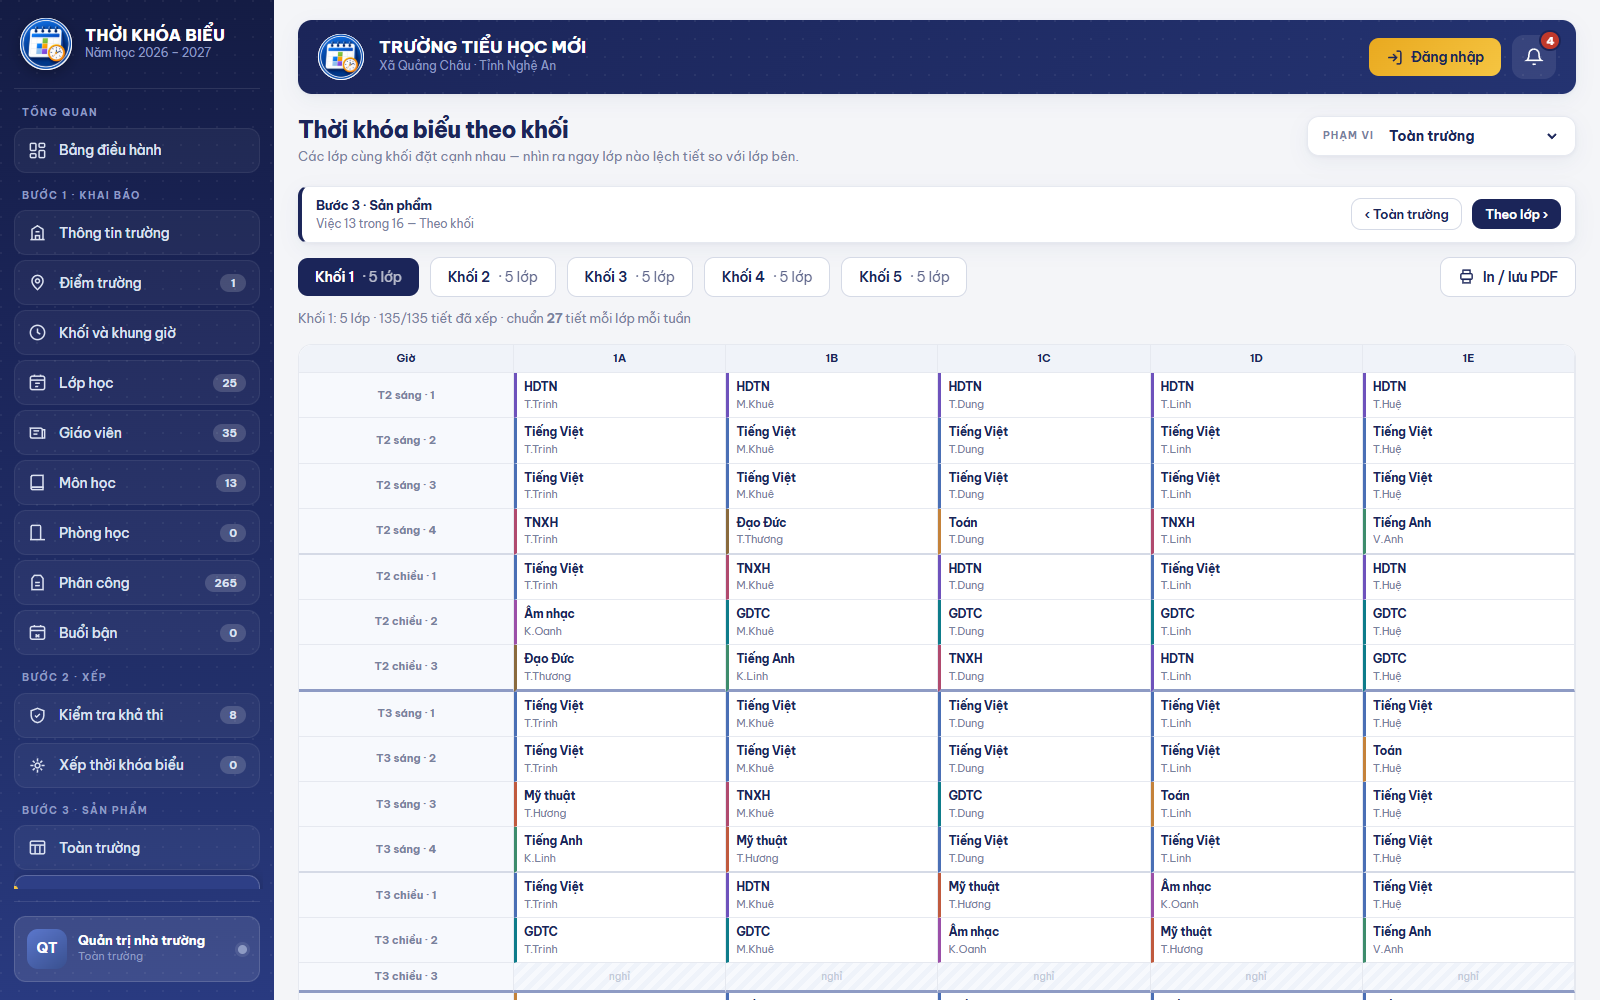
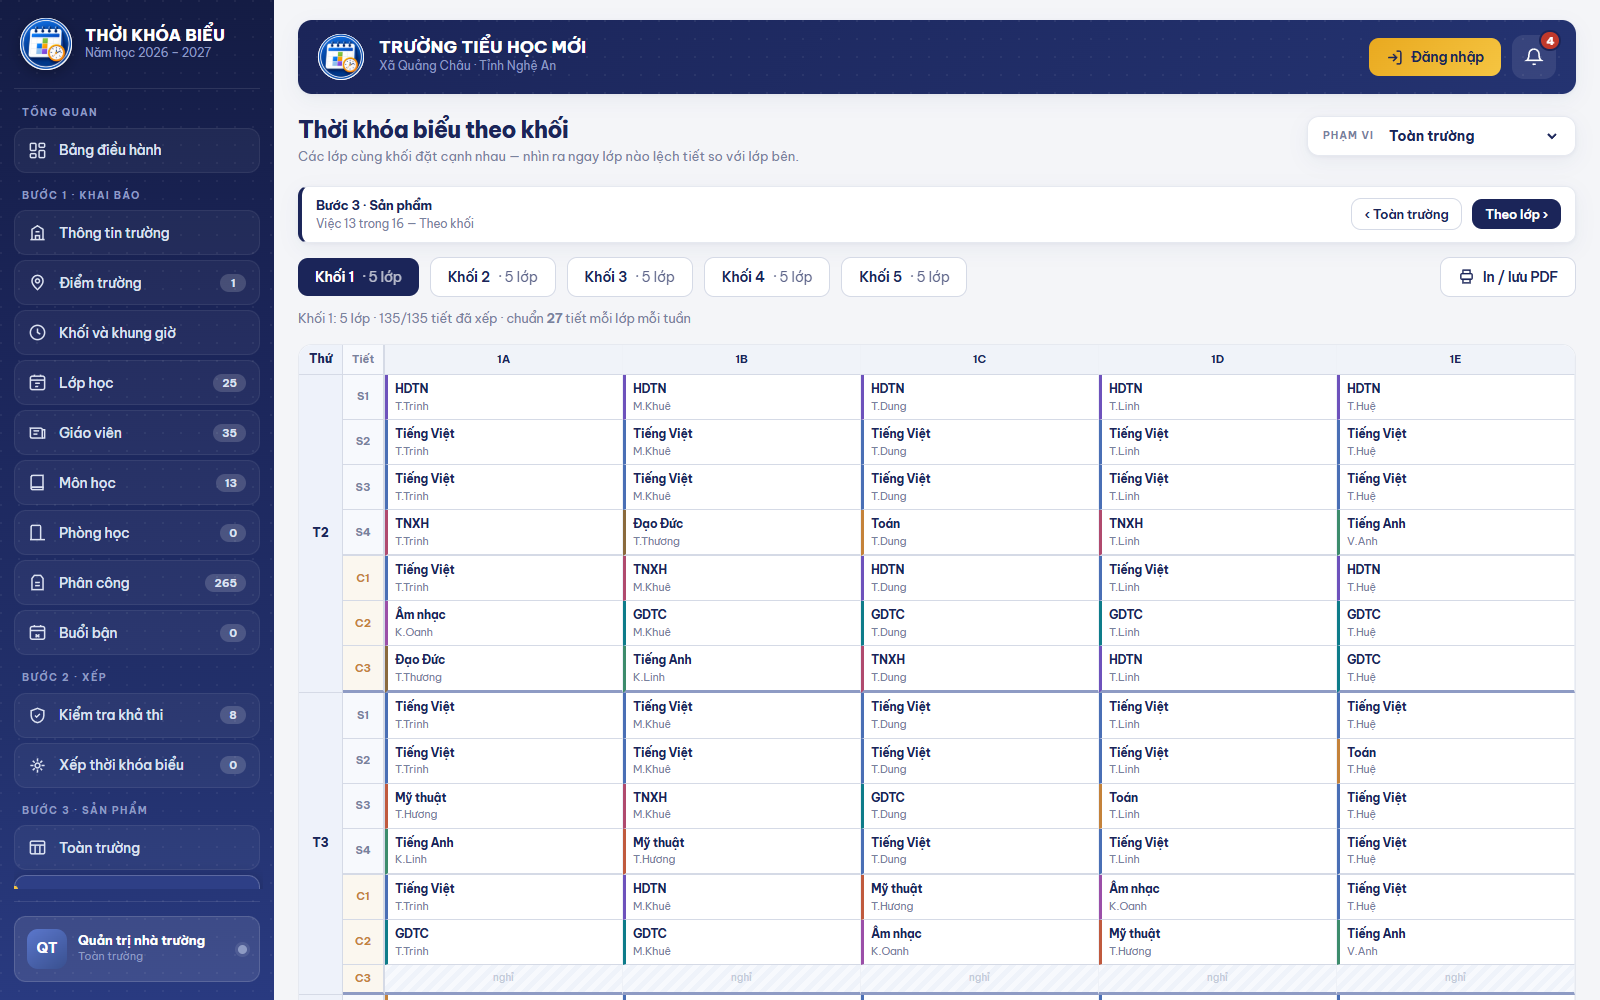
Chống mất việc chưa lưu; mã lớp 1A_DL; lưới gộp ô Thứ, kẻ dọc mảnh ngang rõ
1. MẤT DỮ LIỆU — nặng nhất. Chủ dự án khai xong lớp cho hai điểm trường
   mới, chưa bấm Lưu, trang tải lại là mất sạch. Nay lấy VÂN TAY dữ liệu
   nguồn (vanTayNguon gộp lớp·giáo viên·phân công·điểm trường·môn·phòng·
   buổi bận), chụp lúc tải xong và lúc ghi xong, so lại khi cần — không
   gắn cờ ở từng chỗ sửa vì có hàng chục chỗ, sót một chỗ là hỏng cả cơ
   chế. Hai lối báo: dải đỏ "Có thay đổi chưa lưu" cạnh nút Lưu (nút đổi
   đỏ, chữ "Lưu ngay") và beforeunload chặn khi rời trang.

2. MÃ LỚP theo dạng chủ dự án chốt: <tên lớp>_<viết tắt điểm trường> —
   1A_DL, 1A_DĐ, 1A_DT. Tên lớp trước vì đó là thứ người dùng tìm, sắp
   theo mã cũng ra đúng thứ tự lớp. Viết tắt GIỮ dấu tiếng Việt: bỏ dấu
   thì Diễn Đồng và Diễn Đông đều thành DD, lẫn nhau ngay. sinhLop và
   taoDuLieuThu dùng cùng dạng.

3. LƯỚI — theo mẫu chủ dự án gửi:
   - Cột Thứ gộp ô cả ngày (rowspan), cột Tiết riêng (S1…S4, C1…C3), ô
     chiều tô vàng nhạt để tách buổi. Hai cột đều dính trái.
   - Kẻ dọc mảnh, kẻ ngang rõ: mắt đọc bảng theo HÀNG nên hàng phải tách
     bạch, cột chỉ cần gợi ý.
   - Thẻ lưới bớt lề, bảng rộng thêm gần 30px mỗi bên.
4. Bảng điều hành: bỏ ba thẻ bước khi đã xếp xong — "Xong·Xong·Xong" chỉ
   đẩy nội dung thật xuống dưới. Chưa xếp thì vẫn bày để dẫn đường.

Kiểm chứng: npm test 230/230, npm run soi 141/141, chụp lại ảnh bằng
Chrome thật.

Changed region(s): [[0.1875, 0.341, 1.0, 1.0]]

diff --git a/src/index.html b/src/index.html
@@ -184,6 +184,9 @@ h1{font-size:23px;font-weight:800;letter-spacing:-.03em;line-height:1.2}
 .the-d h2{font-size:15.5px;font-weight:700;letter-spacing:-.02em}
 .the-d .meta{margin-left:auto;font-size:12px;color:var(--chu-mo)}
 .the-t{padding:18px 20px}
+/* Thẻ chứa lưới thời khóa biểu: bớt lề để bảng rộng thêm gần 30px mỗi bên —
+   ở đây từng cột là một lớp, mỗi milimét đều đổi thành nội dung đọc được. */
+.the-rong>.the-t{padding:12px 12px 14px}
 
 .vong{display:flex;align-items:center;gap:22px}
 /* Cụm chữ phải nằm GIỮA lỗ tròn. Bản cũ dùng `display:grid` với hai con:
@@ -220,6 +223,10 @@ h1{font-size:23px;font-weight:800;letter-spacing:-.03em;line-height:1.2}
 .b-vien{background:var(--the);color:var(--chu);border:1px solid var(--ke-2)}
 .b-vien:hover{background:#F7F9FD;filter:none}
 .b-vang{background:linear-gradient(135deg,#E9A91F,#F5C542);color:var(--nav)}
+/* Nút Lưu khi còn thay đổi treo — phải nổi hơn hẳn màu vàng thường */
+.b-do{background:linear-gradient(135deg,#B33224,#D0503F);color:#fff}
+.chua-luu{font-size:12.5px;font-weight:700;color:var(--do);white-space:nowrap;
+  background:var(--do-nen);padding:6px 11px;border-radius:20px}
 .b-nho{padding:7px 12px;font-size:12.5px}
 button:focus-visible,select:focus-visible,input:focus-visible,[tabindex]:focus-visible{outline:2.5px solid var(--lam);outline-offset:2px}
 
@@ -449,8 +456,19 @@ tr.tat-d{opacity:.5}tr.tat-d span{text-decoration:line-through}
 /* ---------- Lưới toàn trường: cuộn ngang trong khung, thân trang không cuộn ---------- */
 .tt-boc{overflow:auto;max-height:74vh;border:1px solid var(--ke);border-radius:var(--r);background:var(--the)}
 table.tt{border-collapse:separate;border-spacing:0;font-size:11.5px;width:max-content;min-width:100%}
-table.tt th,table.tt td{border-right:1px solid var(--ke);border-bottom:1px solid var(--ke);padding:5px 7px;
+/* Kẻ DỌC mảnh, kẻ NGANG rõ — mắt đọc bảng này theo hàng (một tiết, xem
+   các lớp học gì), nên hàng phải tách bạch còn cột chỉ cần gợi ý. */
+table.tt th,table.tt td{border-right:1px solid #EEF1F7;border-bottom:1px solid var(--ke-2);padding:5px 7px;
   white-space:nowrap;background:var(--the)}
+/* Hai cột trái dính: Thứ (gộp ô cả ngày) rồi tới Tiết */
+table.tt .c-thu2{position:sticky;left:0;z-index:2;width:44px;min-width:44px;
+  background:#EEF2FA;font-weight:800;font-size:12px;text-align:center;color:var(--nav);
+  border-right:1px solid var(--ke-2);vertical-align:middle}
+table.tt .c-tiet2{position:sticky;left:44px;z-index:2;width:42px;min-width:42px;
+  background:#F7F9FD;font-weight:700;font-size:11px;text-align:center;color:var(--chu-mo);
+  border-right:2px solid var(--ke-2)}
+table.tt td.c-tiet2.chieu{background:#FBF7EF;color:var(--cam)}
+table.tt thead th.c-thu2,table.tt thead th.c-tiet2{z-index:5}
 table.tt thead th{position:sticky;top:0;z-index:3;background:#F0F3F9;font-size:11px;font-weight:700}
 table.tt th.goc{position:sticky;left:0;z-index:4}
 table.tt td.goc,table.tt th.canh{position:sticky;left:0;z-index:2;background:#F7F9FD;font-weight:700;
@@ -1603,23 +1621,28 @@ const maXauXi = l => {
   const m=String(l.maLop||l.id||'');
   return !l.maLop || m.length>14 || /^[0-9a-f]{8}-[0-9a-f]{4}/i.test(m);
 };
-/* Tiền tố lấy chữ đầu các từ trong tên điểm trường: "Điểm trường Diễn Liên" → DL */
+/* Viết tắt điểm trường: chữ đầu mỗi từ, GIỮ NGUYÊN dấu tiếng Việt —
+   "Điểm trường Diễn Đồng" → DĐ, phân biệt hẳn với "Diễn Liên" → DL.
+   Bỏ dấu thì Diễn Đồng và Diễn Đông đều thành DD, lẫn nhau ngay. */
 function tienToDT(ten){
-  const chu=khongDau(String(ten||'').replace(/^\s*Điểm\s+trường\s*/i,''))
-    .split('-').filter(Boolean);
+  const chu=String(ten||'').replace(/^\s*Điểm\s+trường\s*/i,'').trim().split(/\s+/).filter(Boolean);
   return chu.map(x=>x[0]).join('').toUpperCase().slice(0,3) || 'DT';
 }
-/* Đặt lại mã cho các lớp có mã xấu: <tiền tố điểm trường>-<tên lớp>.
-   Chỉ đụng `maLop` — mọi tham chiếu khác đi bằng `id` nên không xê dịch gì. */
+/* Mã lớp: TÊN LỚP trước, viết tắt điểm trường sau — `1A_DL`, `1A_DĐ`.
+   Tên lớp đứng trước vì đó là thứ người dùng tìm; sắp theo mã cũng ra
+   đúng thứ tự lớp. Chọn dấu `_` để không lẫn với gạch nối trong tên. */
+const maLopTu = (ten, dtTen) => String(ten||'').replace(/\s+/g,'')+'_'+tienToDT(dtTen);
+/* Đặt lại mã cho các lớp đang mang mã xấu. Chỉ đụng `maLop` — mọi tham
+   chiếu khác đi bằng `id` nên không xê dịch gì. */
 function datLaiMaLop(){
   const daCo=new Set(S.lop.map(l=>l.maLop).filter(Boolean));
   let doi=0;
   S.lop.forEach(l=>{
     if(!maXauXi(l)) return;
     daCo.delete(l.maLop);
-    const goc=tienToDT(dtId(S.lopDT[l.id])?.ten)+'-'+String(l.ten||'').replace(/\s+/g,'');
+    const goc=maLopTu(l.ten, dtId(S.lopDT[l.id])?.ten);
     let m=goc, i=1;
-    while(daCo.has(m)) m=goc+'-'+(++i);
+    while(daCo.has(m)) m=goc+'_'+(++i);
     daCo.add(m); l.maLop=m; doi++;
   });
   return doi;
@@ -1629,8 +1652,9 @@ function sinhLop(khoi, so, tienTo, dt){
   const r=[], n=Math.max(0,Math.min(26,+so||0));
   for(let i=0;i<n;i++){
     const ten=khoi+CHU_LOP[i];
-    const ma=(tienTo?tienTo.trim()+'-':'')+ten;
-    r.push({id:'lop_'+ma.replace(/[^A-Za-z0-9]+/g,'_'), maLop:ma, ten, khoi:+khoi, dtId:dt});
+    /* Tên lớp trước, viết tắt điểm trường sau: 1A_DL — xem maLopTu() */
+    const ma=ten+(tienTo?'_'+tienTo.trim():'');
+    r.push({id:'lop_'+khongDau(ma).replace(/-+/g,'_'), maLop:ma, ten, khoi:+khoi, dtId:dt});
   }
   return r;
 }
@@ -1688,7 +1712,7 @@ function taoDuLieuThu(tenDiem, tienTo, soLop, coPhongTin){
   const chia=chiaLopTheoKhoi(soLop), lopMoi=[];
   [1,2,3,4,5].forEach(k=>{
     for(let i=0;i<chia[k];i++){
-      const maLop=duyNhat((tienTo?tienTo.trim()+'-':'')+k+CHU_LOP[i], daLop);
+      const maLop=duyNhat(k+CHU_LOP[i]+(tienTo?'_'+tienTo.trim():''), daLop);
       const id='lop_'+ma(maLop);
       S.lop.push({id, maLop, ten:k+CHU_LOP[i], khoi:k});
       S.lopDT[id]=d.id; S.tkb[id]={};
@@ -2380,6 +2404,7 @@ async function taiTuMayChu(){
                     phan_cong, gv_nghi, mon_hoc, phong, day_thay}));
   KHO.version = +pb?.[0]?.version || 0;
   KHO.banCongBo = +cb?.[0]?.version || 0;
+  chotVanTay();                    /* mốc so sánh: vừa tải về thì chưa có gì để lưu */
   const d = pb?.[0]?.du_lieu ? docTKB(pb[0].du_lieu) : {nap:0, boQua:0};
   return {
     ok:true, nguon:'may-chu', version:KHO.version, soTiet:d.nap, boQua:d.boQua,
@@ -2917,6 +2942,32 @@ function ghiNhatKy(hanhDong, duLieuCu){
     hanh_dong:hanhDong, du_lieu_cu:duLieuCu||null
   })}).then(()=>true).catch(()=>false);
 }
+
+/* ---------- Chống mất dữ liệu chưa lưu ----------
+   ĐÃ MẤT THẬT (2/8/2026): chủ dự án khai xong lớp cho hai điểm trường mới,
+   chưa bấm Lưu, trang tải lại — mất sạch. Dữ liệu nguồn nằm trong bộ nhớ
+   trình duyệt cho tới khi ghi lên máy chủ, mà trang thì tải lại vì đủ thứ
+   lý do: bản mới, Ctrl+F5, hết pin, chuyển tab quá lâu.
+
+   Không gắn cờ ở từng chỗ sửa — có hàng chục chỗ, sót một chỗ là hỏng cả
+   cơ chế. Thay vào đó lấy VÂN TAY của dữ liệu nguồn: chụp lúc tải xong và
+   lúc ghi xong, so lại khi người dùng định rời trang. Khác nhau nghĩa là
+   có sửa chưa lưu, bất kể sửa ở đâu. */
+function vanTayNguon(){
+  const gon = (a,f) => (a||[]).map(f).sort().join('|');
+  return [
+    gon(S.lop, l=>`${l.id}:${l.ten}:${l.khoi}:${l.maLop||''}:${S.lopDT[l.id]||''}`),
+    gon(S.giaoVien, g=>`${g.id}:${g.hoTen}:${g.cn||''}:${g.dinhMuc||''}`),
+    gon(S.phanCong, p=>`${p.gvId}:${p.lopId}:${p.mon}:${p.soTiet}`),
+    gon(S.diemTruong, d=>`${d.id}:${d.ten}:${d.phongTin!==false}`),
+    gon(S.monHoc, m=>`${m.ten}:${m.nang}:${m.nhe}:${m.phong||''}`),
+    gon(S.phong, p=>`${p.ten}:${p.dtId}:${p.mon||''}`),
+    Object.entries(S.gvNghi||{}).map(([k,v])=>k+':'+[...v].sort().join(',')).sort().join('|')
+  ].join('##');
+}
+const chotVanTay = () => { KHO.vanTay = vanTayNguon(); };
+const coThayDoiChuaLuu = () =>
+  KHO.vanTay != null && coMayChu() && duocSuaNguon() && vanTayNguon() !== KHO.vanTay;
 
 function dinhDangLuc(x){
   if(!x) return '';
@@ -3680,7 +3731,7 @@ function mDieuHanh(){
      hướng dẫn lên trước, vì lúc đó người dùng thật sự cần được dẫn đường. */
   const coSanPham = daXep>0 && ds.length>0;
   const kheSanPham = !coSanPham ? '' : `
-  <div class="the" style="margin-bottom:18px">
+  <div class="the the-rong" style="margin-bottom:18px">
     <div class="the-d"><h2>Thời khóa biểu ${esc(S.tenTruong)}</h2>
       <span class="meta">${ds.length} lớp · ${daXep}/${tongCan} tiết${KHO.version?` · phiên bản ${KHO.version}`:''}</span></div>
     <div class="the-t">
@@ -3701,7 +3752,9 @@ function mDieuHanh(){
   return dauTrang('Bảng điều hành',
     coSanPham?'Thời khóa biểu đang dùng và toàn cảnh công tác xếp'
              :'Toàn cảnh công tác xếp thời khóa biểu',true)+
-  kheSanPham+thanhBuoc(0)+`
+  /* Ba thẻ bước chỉ có nghĩa khi còn việc phải làm. Xếp xong rồi mà vẫn
+     bày ba thẻ "Xong · Xong · Xong" thì chỉ tổ đẩy nội dung thật xuống. */
+  kheSanPham+(coSanPham?'':thanhBuoc(0))+`
   <div class="dh">
   <div class="bang-ron">
     <div>
@@ -4229,11 +4282,17 @@ function luoiRongHTML(ds, ghiKhoi, cao){
     const k=khoiCuaLop(l), cuoi=daiKhoi[daiKhoi.length-1];
     if(cuoi && cuoi.k===k) cuoi.n++; else daiKhoi.push({k, n:1});
   });
+  /* Đếm số dòng của mỗi NGÀY để gộp ô cột Thứ — ghi "Thứ Hai" một lần cho
+     cả ngày, đúng lối bảng thời khóa biểu in trên giấy. */
+  const soDongNgay={};
+  hang.forEach(o=>{ soDongNgay[o.thu]=(soDongNgay[o.thu]||0)+1; });
+  let thuTruoc=null;
+
   return `<div class="tt-boc"${cao?` style="max-height:${cao}"`:''}><table class="tt${ghiKhoi?' co-khoi':''}">
     <thead>
-      ${ghiKhoi?`<tr class="dai-khoi"><th class="goc"></th>
+      ${ghiKhoi?`<tr class="dai-khoi"><th class="c-thu2"></th><th class="c-tiet2"></th>
         ${daiKhoi.map(x=>`<th colspan="${x.n}">Khối ${x.k}</th>`).join('')}</tr>`:''}
-      <tr><th class="goc">Giờ</th>
+      <tr><th class="c-thu2">Thứ</th><th class="c-tiet2">Tiết</th>
       ${ds.map(l=>`<th>${esc(tenLopDay(l.id))}</th>`).join('')}
     </tr></thead><tbody>
     ${hang.map((o,i)=>{
@@ -4241,8 +4300,10 @@ function luoiRongHTML(ds, ghiKhoi, cao){
       const sau=hang[i+1];
       const hetNgay = !sau || sau.thu!==o.thu;
       const hetBuoi = !hetNgay && sau.buoi!==o.buoi;
+      const dauNgay = o.thu!==thuTruoc; thuTruoc=o.thu;
       return `<tr class="${hetNgay?'het-ngay':hetBuoi?'het':''}">
-        <td class="goc">${TAT_THU[o.thu]} ${o.buoi==='S'?'sáng':'chiều'} · ${o.tiet}</td>
+        ${dauNgay?`<td class="c-thu2" rowspan="${soDongNgay[o.thu]}">${TAT_THU[o.thu]}</td>`:''}
+        <td class="c-tiet2 ${o.buoi==='S'?'sang':'chieu'}">${o.buoi==='S'?'S':'C'}${o.tiet}</td>
         ${ds.map(l=>{
           if(k && o.tiet>soTietBuoi(k,khoiCuaLop(l)))
             return '<td class="o-nghi-t">nghỉ</td>';
@@ -5265,14 +5326,19 @@ const MAU_MON = [
    lớp, giáo viên, phân công, điểm trường. Bày ở màn hình Môn học hay Phòng học
    là hứa hão — tệp không có hai thứ đó. */
 function thanhKhaiBao(nut, coNhap=true){
+  /* Còn thay đổi chưa ghi lên máy chủ thì nói thẳng ra ngay cạnh nút Lưu.
+     Người dùng đã khai xong lớp cho hai điểm trường rồi mất sạch vì không
+     biết mình chưa lưu — im lặng ở đây là im lặng đắt nhất trong phần mềm. */
+  const treo = coThayDoiChuaLuu();
   return `<div class="kb-thanh">${nut}
     <span style="flex:1"></span>
+    ${treo?`<span class="chua-luu">● Có thay đổi chưa lưu</span>`:''}
     ${coNhap?`<button class="b b-vien" id="btNhapExcel">
       <svg viewBox="0 0 24 24" fill="none" stroke="currentColor"><path d="M12 3v12M8 11l4 4 4-4M4 21h16"/></svg>
       Nhập từ Excel</button>`:''}
-    <button class="b b-vang" id="btLuuNguon">
+    <button class="b ${treo?'b-do':'b-vang'}" id="btLuuNguon">
       <svg viewBox="0 0 24 24" fill="none" stroke="currentColor"><path d="M12 21V9M8 13l4-4 4 4M4 3h16"/></svg>
-      Lưu</button></div>`;
+      Lưu${treo?' ngay':''}</button></div>`;
 }
 
 /* ---------- 3.8a Thông tin trường ---------- */
@@ -6537,7 +6603,9 @@ async function luuNguonLenMayChu(e){
   if(b){ b.disabled=true; b.textContent='Đang lưu…'; }
   const kq=await ghiDuLieuNguon(S);
   if(b){ b.disabled=false; b.innerHTML=cu; }
+  if(kq.ok) chotVanTay();          /* ghi xong thì coi như không còn thay đổi treo */
   bao(kq.thongBao, !kq.ok);
+  ve();
   if(kq.ok && (kq.lopThua?.length || kq.gvThua?.length))
     setTimeout(()=>bao(`Trên máy chủ còn ${kq.lopThua.length} lớp và ${kq.gvThua.length} giáo viên `+
       'không có trong màn hình này — phần mềm không tự xoá.'), 3200);
@@ -7270,6 +7338,14 @@ async function khoiDong(){
   else if(kq?.thongBao) bao(kq.thongBao, kq.ok===false);
 }
 khoiDong();
+
+/* Rời trang khi còn thay đổi chưa lưu thì trình duyệt hỏi lại. Không cứu
+   được mọi tình huống (hết pin, đóng máy) nhưng cứu đúng tình huống hay
+   gặp nhất: bấm F5, bấm nút quay lại, đóng tab. */
+window.addEventListener('beforeunload', e=>{
+  if(!coThayDoiChuaLuu()) return;
+  e.preventDefault(); e.returnValue='';
+});
 
 /* Đăng ký service worker — chỉ khi chạy qua http/https (mở bằng file://
    hay trong trình duyệt giả của npm run soi thì bỏ qua, không lỗi gì).

diff --git a/CLAUDE.md b/CLAUDE.md
@@ -303,14 +303,41 @@ không phải trang trí:
 4. **Ô "nghỉ" kẻ sọc mờ** — mắt nhận ra ngay là "khối này tan rồi". Vẫn
    giữ chữ *nghỉ*: bỏ trống thì lẫn với tiết chưa xếp.
 
+Bố cục cột trái theo đúng bảng thời khóa biểu in trên giấy: **cột Thứ gộp ô
+cả ngày** (`rowspan`) rồi tới **cột Tiết** (`S1…S4`, `C1…C3`, ô chiều tô vàng
+nhạt). Hai cột đều dính trái — cột thứ hai phải khai `left:44px` khớp đúng bề
+ngang cột thứ nhất, lệch một pixel là chồng lên nhau.
+
+Kẻ **dọc mảnh, ngang rõ**: mắt đọc bảng này theo HÀNG (một tiết, xem các lớp
+học gì), nên hàng phải tách bạch còn cột chỉ cần gợi ý.
+
+#### Không bao giờ để mất việc chưa lưu *(2/8/2026)*
+
+Chủ dự án khai xong lớp cho hai điểm trường mới, chưa bấm Lưu, trang tải lại
+— **mất sạch**. Dữ liệu nguồn nằm trong bộ nhớ trình duyệt cho tới khi ghi
+lên máy chủ, mà trang thì tải lại vì đủ thứ lý do.
+
+Cách làm: **không gắn cờ ở từng chỗ sửa** (hàng chục chỗ, sót một chỗ là hỏng
+cả cơ chế). Thay vào đó lấy **vân tay** dữ liệu nguồn — `vanTayNguon()` gộp
+lớp · giáo viên · phân công · điểm trường · môn · phòng · buổi bận thành một
+chuỗi. `chotVanTay()` chụp lúc tải xong và lúc ghi xong; `coThayDoiChuaLuu()`
+so lại. Khác nhau nghĩa là có sửa chưa lưu, bất kể sửa ở đâu. Hai lối báo:
+dải đỏ *"● Có thay đổi chưa lưu"* cạnh nút Lưu (nút đổi sang đỏ, chữ
+*"Lưu ngay"*), và `beforeunload` chặn khi rời trang.
+
 #### Mã lớp phải là mã NGƯỜI đọc được *(2/8/2026)*
 
 Cơ sở dữ liệu dựng trước khi có cột `ma_lop` để trống ô đó, nên bảng Lớp học
 bày ra mã UUID 36 ký tự của máy chủ — mà mã lớp chính là thứ người dùng phải
-gõ vào tệp Excel. Nút **Đặt lại mã lớp** (chỉ hiện khi có mã xấu) đổi thành
-`<tiền tố điểm trường>-<tên lớp>`: `DL-2A`, `DD-2A`. Ba hàm: `maXauXi()`
-nhận diện, `tienToDT()` lấy chữ đầu tên điểm trường, `datLaiMaLop()` đổi và
-chống trùng. Chỉ đụng `maLop` — mọi tham chiếu khác đi bằng `id`.
+gõ vào tệp Excel. Nút **Đặt lại mã lớp** (chỉ hiện khi có mã xấu).
+
+Dạng mã do chủ dự án chốt: **`<tên lớp>_<viết tắt điểm trường>`** — `1A_DL`,
+`1A_DĐ`, `1A_DT`. Tên lớp đứng trước vì đó là thứ người dùng tìm, và sắp theo
+mã cũng ra đúng thứ tự lớp. Viết tắt **giữ nguyên dấu tiếng Việt**: bỏ dấu
+thì *Diễn Đồng* và *Diễn Đông* đều thành `DD`, lẫn nhau ngay từ mã lớp.
+Bốn hàm: `maXauXi()` nhận diện, `tienToDT()` lấy chữ đầu, `maLopTu()` ghép,
+`datLaiMaLop()` đổi và chống trùng. Chỉ đụng `maLop` — mọi tham chiếu khác đi
+bằng `id`. `sinhLop()` và `taoDuLieuThu()` dùng cùng dạng.
 
 #### Sản phẩm lên trước, quy trình lùi sau *(2/8/2026)*
 
